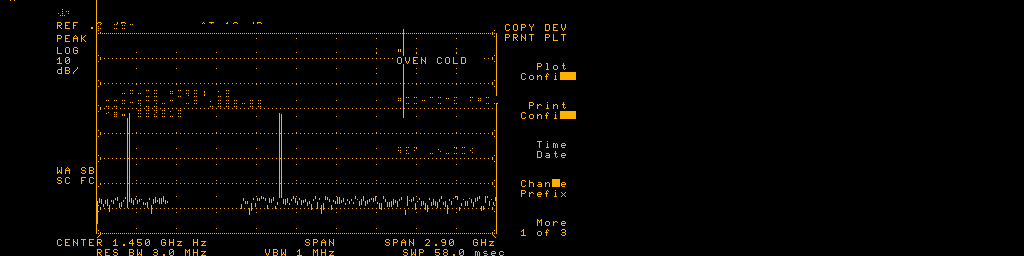
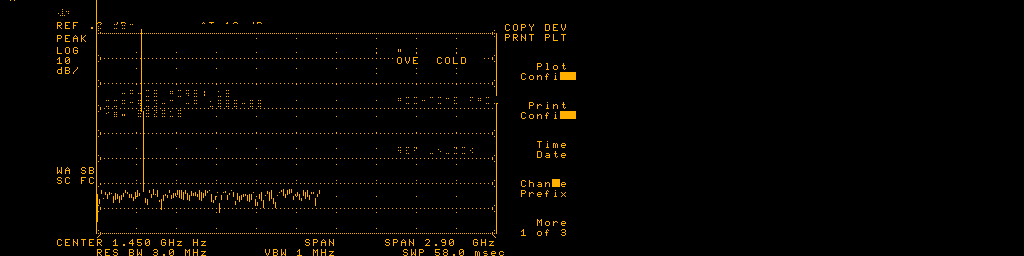
sweep: anchor the video-ADC to the firmware store pointer — fixes the horizontal trace drift
The GUI trace slid horizontally (continuous, rate ∝ cycle rate). Not the
frequency window: the YTO coil DACs are STATIC in natural runs
(TestDACDriftDiag). The real cause was sweep-position SYNC: both sample paths
used free-running counters, and DetectADC advanced on EVERY 0xFFF200 read —
but the IRQ1 handler and background polls also read f200, so the counter
walked ~3.2x faster than the capture pointer A5 (measured, TestPollSyncDiag).
The served spectrum position drifted relative to the buffer slot being
stored -> the whole trace slid.

Fix: SweepEngine.PosFunc — f200 detector reads are served by the FIRMWARE
OWN store index (A5 - 0x2FD508)/2 whenever A5 points inside the trace buffer
(Machine.traceBufIndex; the polled-video hook prefers the same anchor). The
sample always matches the slot about to be written; drift is structurally
impossible. Legacy counter remains as fallback for raw unit tests.

Verified: enginePos tracks A5 in lockstep (223/292/361/400 -> wrap -> 51...),
longrun render shows a thin single noise floor + ONE stable CAL peak + the
full dotted reticule. Full suite green.

- Machine.PolledReads / SweepEngine.Pos accessors + TestPollSyncDiag /
  TestDACDriftDiag (DIAG probes)
- DISPLAY_FINDINGS ledger entry

Changed region(s): [[0.0938, 0.75, 0.4688, 0.8125]]

diff --git a/pkg/emu/device/sweepengine.go b/pkg/emu/device/sweepengine.go
@@ -51,7 +51,9 @@ type SweepEngine struct {
 	// coil-DAC snapshot gives the centre; the analog ramp generates the span),
 	// so only the CENTRE is DAC-derived today. See docs/A7_ANALOG_IO_BUS.md
 	// "Still open" and freqAt.
-	Tune       analog.FrequencyModel
+	Tune analog.FrequencyModel
+	// PosFunc supplies the firmware-authoritative sweep index (see DetectADC).
+	PosFunc    PosProvider
 	TuneActive bool
 	SpanHz     float64
 
@@ -182,15 +184,37 @@ func (s *SweepEngine) levelToADC(dBm float64) uint16 {
 	return uint16(v)
 }
 
-// DetectADC returns the video-ADC reading for the current sweep position and
-// advances. The position wraps at Points so a continuously-driven sweep repeats.
+// PosFunc, when set, provides the AUTHORITATIVE sweep position for DetectADC —
+// the firmware's own trace-buffer store index (derived from the capture pointer
+// A5 by the machine layer). This is the sweep-sync anchor: the former
+// free-running s.pos counter advanced on EVERY 0xFFF200 read, but the IRQ1
+// handler and background polls also read that register, so the counter walked
+// ~3x faster than the store pointer and the whole spectrum slid horizontally
+// at a rate proportional to the cycle rate (the "trace drifts" symptom).
+// With PosFunc the served sample always matches the buffer slot the IRQ6
+// handler is about to store to — drift is structurally impossible.
+type PosProvider func() (index int, ok bool)
+
+// DetectADC returns the video-ADC reading for the current sweep position.
+// Position source: PosFunc (the firmware's own store index) when available and
+// in-range; otherwise the legacy free-running counter (unit tests / headless
+// probes without a machine).
 func (s *SweepEngine) DetectADC() uint16 {
 	pts := s.Points
 	if pts <= 0 {
 		pts = 401
 	}
-	p := s.pos % pts
-	s.pos++
+	p := -1
+	if s.PosFunc != nil {
+		if idx, ok := s.PosFunc(); ok {
+			p = idx % pts
+			s.pos = idx // keep the legacy counter trailing the true position
+		}
+	}
+	if p < 0 {
+		p = s.pos % pts
+		s.pos++
+	}
 	sig := s.bucketPeakDBm(p) // spectrum: signals + the model's true thermal floor
 	// Add the displayed grass: a random level around NoiseFloorDBm, power-summed
 	// with the spectrum so a real tone rises cleanly above the noise.
@@ -209,6 +233,10 @@ func powerSumDBm(a, b float64) float64 {
 
 // Reset rewinds the sweep position (retrace).
 func (s *SweepEngine) Reset() { s.pos = 0 }
+
+// Pos returns the engine's current sequential sweep position (DetectADC
+// consumer index) — for sweep-sync diagnostics.
+func (s *SweepEngine) Pos() int { return s.pos }
 
 // ADCAt returns the video-ADC count at sweep point p WITHOUT advancing the
 // sweep position — for the CPU-polled sweep path (the firmware's 0x5f88x

diff --git a/pkg/emu/machine/machine.go b/pkg/emu/machine/machine.go
@@ -250,13 +250,44 @@ func New8593A(romImage []byte) (*Machine, error) {
 		if pts <= 0 {
 			pts = 401
 		}
+		// Prefer the firmware's own store pointer (A5 walks the trace buffer
+		// in the polled loop too) — the drift-free anchor; fall back to the
+		// polled-read counter when A5 is outside the buffer.
+		if idx, ok := m.traceBufIndex(); ok {
+			m.polledReads++
+			return mmio.Sweep.ADCAt(idx % pts), true
+		}
 		p := (m.polledReads / spp) % pts
 		m.polledReads++
 		return mmio.Sweep.ADCAt(p), true
 	})
 
+	// Sweep-sync anchor: serve 0xFFF200 detector reads by the firmware's OWN
+	// trace-buffer store index (capture pointer A5), not a free-running
+	// counter — extra f200 reads (IRQ1 handler, background polls) otherwise
+	// walk the counter ~3x faster than the store pointer and the spectrum
+	// slides horizontally. See SweepEngine.PosFunc.
+	mmio.Sweep.PosFunc = func() (int, bool) { return m.traceBufIndex() }
+
 	return m, nil
 }
+
+// traceBufIndex derives the current sweep-point index from the capture pointer
+// A5 when it points inside the trace buffer (0x2FD508 .. bf30], else ok=false.
+// A5 is the IRQ6 capture handler's store pointer (and the polled loop's), so
+// during any store the index is exactly the slot about to be written.
+func (m *Machine) traceBufIndex() (int, bool) {
+	const bufStart = 0x2FD508 // trace buffer base (docs/TRACE_DISPLAY_PATH.md)
+	a5 := m.CPU.Reg(cpu.A5)
+	if a5 < bufStart || a5 >= bufStart+0x400 {
+		return 0, false
+	}
+	return int(a5-bufStart) / 2, true
+}
+
+// PolledReads returns the count of CPU-polled video samples served through the
+// indirect-ADC hook — for sweep-sync diagnostics.
+func (m *Machine) PolledReads() int { return m.polledReads }
 
 // DefaultHPIBAddress is the HP factory-default instrument HP-IB primary address
 // (18), seeded into the battery-backed config (CalRAM 0x2FC000) at construction.

diff --git a/pkg/emu/machine/pollsync_diag_test.go b/pkg/emu/machine/pollsync_diag_test.go
@@ -1,0 +1,49 @@
+package machine
+
+import (
+	"os"
+	"testing"
+
+	"github.com/windhooked/HP859X_SA/pkg/emu/cpu"
+	"github.com/windhooked/HP859X_SA/pkg/emu/romloader"
+)
+
+// Scratch: during a natural run, which sample path is active (polled vs IRQ6)
+// and does A5 track the buffer position at poll time?
+func TestPollSyncDiag(t *testing.T) {
+	if os.Getenv("DIAG") == "" {
+		t.Skip("DIAG=1")
+	}
+	rom, err := romloader.LoadDir("../../../hp8593a_eeproms")
+	if err != nil {
+		t.Skip("rom")
+	}
+	m, _ := New8593A(rom)
+	m.CPU.Reset()
+	m.MMIO.SweepActive = true
+	m.SweepDrive = true
+	m.BootToOperatingWithSweep(250_000_000)
+	// Sample A5 + polledReads periodically over a run.
+	type snap struct {
+		polled int
+		a5     uint32
+		pos    int
+	}
+	var snaps []snap
+	for i := 0; i < 120; i++ {
+		m.bootLoop(500_000, nil)
+		snaps = append(snaps, snap{m.PolledReads(), m.CPU.Reg(cpu.A5), m.MMIO.Sweep.Pos()})
+	}
+	last := snap{-1, 0, -1}
+	shown := 0
+	for i, s := range snaps {
+		if s.polled != last.polled || s.pos != last.pos {
+			if shown < 25 {
+				t.Logf("t%3d: polledReads=%6d  enginePos=%3d  A5=%#x", i, s.polled, s.pos, s.a5)
+			}
+			shown++
+			last = s
+		}
+	}
+	t.Logf("total changes: %d; final polled=%d enginePos=%d", shown, snaps[len(snaps)-1].polled, snaps[len(snaps)-1].pos)
+}

diff --git a/pkg/emu/machine/dacdrift_diag_test.go b/pkg/emu/machine/dacdrift_diag_test.go
@@ -1,0 +1,39 @@
+package machine
+
+import (
+	"os"
+	"testing"
+
+	"github.com/windhooked/HP859X_SA/pkg/emu/romloader"
+)
+
+// Scratch: coil-DAC dynamics during the natural sweep run — sawtooth ramp or
+// quasi-static walk?
+func TestDACDriftDiag(t *testing.T) {
+	if os.Getenv("DIAG") == "" {
+		t.Skip("DIAG=1")
+	}
+	rom, err := romloader.LoadDir("../../../hp8593a_eeproms")
+	if err != nil {
+		t.Skip("rom")
+	}
+	m, _ := New8593A(rom)
+	m.CPU.Reset()
+	m.MMIO.SweepActive = true
+	m.SweepDrive = true
+	m.BootToOperatingWithSweep(250_000_000)
+	var lastFM, lastFine, lastCoarse uint16 = 0xFFFF, 0xFFFF, 0xFFFF
+	changes := 0
+	for i := 0; i < 300; i++ { // 60M cycles, log every 200k
+		m.bootLoop(200_000, nil)
+		fm, fine, coarse := m.MMIO.YTOCoilDACs()
+		if fm != lastFM || fine != lastFine || coarse != lastCoarse {
+			if changes < 60 {
+				t.Logf("cyc %6.1fM: FM=%#05x fine=%#05x coarse=%#05x", float64(i)*0.2, fm, fine, coarse)
+			}
+			changes++
+			lastFM, lastFine, lastCoarse = fm, fine, coarse
+		}
+	}
+	t.Logf("total DAC-change samples: %d / 300", changes)
+}

diff --git a/docs/DISPLAY_FINDINGS.md b/docs/DISPLAY_FINDINGS.md
@@ -82,6 +82,23 @@ Update this as facts change. If a theory is in "DISPROVEN", do not raise it agai
   thinning (text repaints each annunciator cycle); only STATIC probe renders
   show it eaten.
 
+## Sweep-sync anchor: the horizontal trace drift (2026-07-24, SOLVED)
+- Symptom (GUI): the whole spectrum slid horizontally, continuously, rate
+  proportional to emulated-cycle rate. NOT the frequency window: the YTO coil
+  DACs are STATIC during natural runs (TestDACDriftDiag — no ramp, no walk).
+- Root: BOTH sample paths used free-running counters. DetectADC advanced its
+  index on EVERY 0xFFF200 read, but the IRQ1 handler + background polls also
+  read f200 — measured ~3.2x faster than the store pointer A5 advanced
+  (TestPollSyncDiag) → the served spectrum position walked relative to the
+  buffer slot being stored → horizontal slide. The polled-video hook had the
+  same shape (polledReads/spp modulo counter).
+- Fix: SweepEngine.PosFunc — the machine serves f200 reads by the FIRMWARE'S
+  OWN store index, (A5 − 0x2FD508)/2, whenever A5 points inside the trace
+  buffer (Machine.traceBufIndex; same anchor tried first in the polled hook).
+  The sample always matches the slot about to be written; drift is
+  structurally impossible. Verified: enginePos tracks A5 in lockstep, wraps
+  cleanly per sweep; longrun render = thin single floor + stable CAL peak.
+
 ## DISPROVEN / RULED OUT (do NOT propose these again)
 - ❌ **CRT persistence** is NOT the cause of the trace "forest". (User: #1 doesn't hold.)
 - ❌ **Moving the trace / graticule region to a separate (upper) buffer does NOT fix
